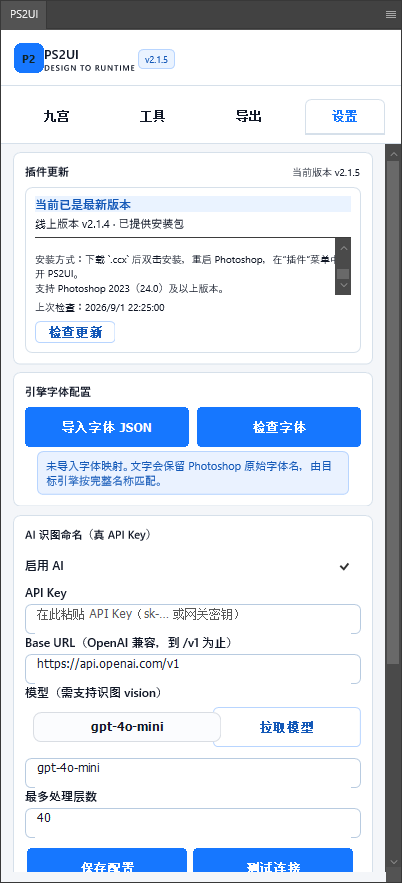
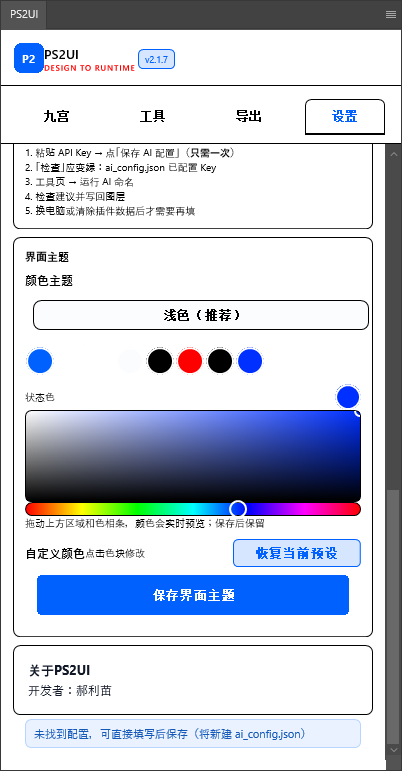
docs: refresh v2.1.7 site and settings preview

diff --git a/site/index.html b/site/index.html
@@ -143,7 +143,7 @@
           </figure>
           <figure class="panel-shot">
             <div class="panel-shot-image"><a href="./assets/ps2ui-panel-settings.png" target="_blank" rel="noreferrer"><img src="./assets/ps2ui-panel-settings.png" loading="lazy" alt="PS2UI 设置面板" /></a></div>
-            <figcaption><span class="panel-shot-kicker">03 / SETTINGS</span><strong>项目设置</strong><span>字体映射、AI 配置和导出偏好集中管理。</span></figcaption>
+            <figcaption><span class="panel-shot-kicker">03 / SETTINGS</span><strong>项目设置</strong><span>字体映射、AI 配置和导出偏好集中管理，并支持主题色块与实时取色预览。</span></figcaption>
           </figure>
         </div>
         <div class="panel-shot panel-shot-export">

diff --git a/docs/releases/v2.1.7.md b/docs/releases/v2.1.7.md
@@ -5,10 +5,10 @@
 ## 更新重点
 
 - 主题色改为直观色块选择，支持蓝、紫、青、橙、粉等预设。
-- 保留自定义颜色选择器，并显示当前选中状态。
+- 保留自定义颜色选择器，可在饱和度/明度区域和色相条中拖动，并实时预览当前颜色。
 - 主题色现在覆盖面板背景、卡片、输入框、下拉菜单、提示区、边框、文字、悬停和焦点状态。
 - 深色主题不再只改变外框，面板内部控件同步适配。
 - 关于页面显示“开发者：郝利苗”。
-- 完整回归测试 269 项全部通过。
+- 完整回归测试 273 项全部通过。
 
 安装后重启 Photoshop，从“插件 -> PS2UI”打开面板，左上角应显示 `v2.1.7`。
